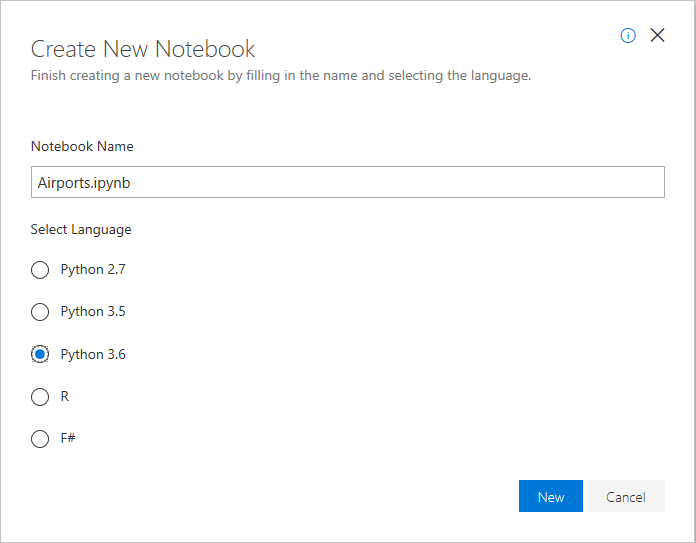
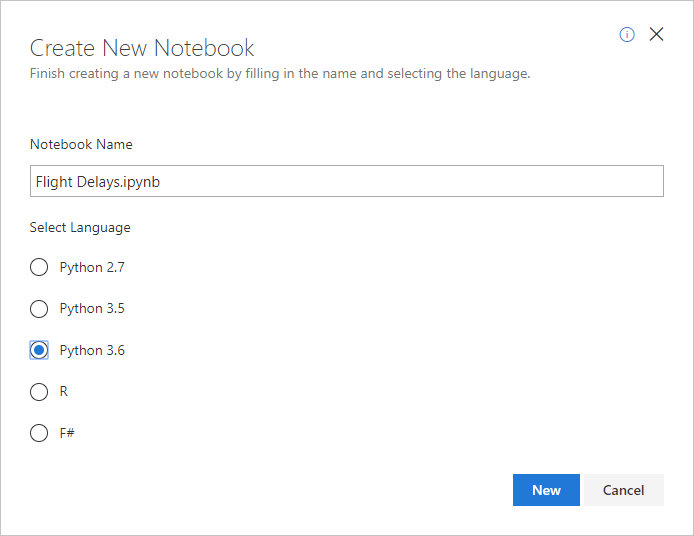
Updated data-handling module

diff --git a/Data Handling in Python (Ibach)/includes/4-analyze-flight-delays.md b/Data Handling in Python (Ibach)/includes/4-analyze-flight-delays.md
@@ -26,7 +26,7 @@ Azure notebooks are created through the portal at https://notebooks.azure.com an
 
 	_Adding a notebook to the project_
 
-1. Name the notebook "Airports.ipynb," and select **Python 3.6** as the language. This will create a notebook with a Python 3.6 kernel for executing Python code. One of the strengths of Azure notebooks is that you can use different languages by choosing different kernels.
+1. Name the notebook "Flight Delays.ipynb," and select **Python 3.6** as the language. This will create a notebook with a Python 3.6 kernel for executing Python code. One of the strengths of Azure notebooks is that you can use different languages by choosing different kernels.
 
 	![Creating a notebook](media/add-notebook-2.png)
 
@@ -37,36 +37,6 @@ Azure notebooks are created through the portal at https://notebooks.azure.com an
 1. Click the notebook to open it for editing.
 
 You can create additional projects and notebooks as you work with Azure Notebooks. You can create notebooks from scratch, or you can upload existing notebooks. And once a notebook is created or uploaded, you can take advantage of Azure compute resources to run the notebook and leverage popular Python libraries such as [Keras](https://keras.io/), [NumPy](http://www.numpy.org/), [Pandas](https://pandas.pydata.org/), [Matplotlib](https://matplotlib.org/), and [Scikit-learn](https://scikit-learn.org/stable/index.html).
-
-## Execute code in the notebook
-
-Jupyter notebooks are composed of cells. Each cell is assigned one of three types: 
-- **Markdown** for entering text in markdown format. 
-- **Code** for entering code that runs interactively  
-- **Raw NBConvert** for entering data inline
-
-Code entered into code cells is executed by a *kernel*. The popular IPython kernel supports code written in Python, but dozens of other kernels are available supporting other languages. Azure notebooks (Jupyter notebooks created in Azure) support Python, R, and F#. They also support numerous packages and libraries that are commonly used in Python.
-
-1. In the first cell, set the cell type to **Markdown** and type "# Airport codes" (without quotation marks) into the cell itself. The click the **Run** button in the notebook's toolbar:
-
-	![Creating a markdown cell](media/first-cell.png)
-
-	_Creating a markdown cell_
-
-1. Type the following code into the next cell and click **Run** again to execute the code:
-
-	```python
-    airport_codes = ['SEA', 'DTW', 'HOU', 'BOS']
-    print(airport_codes)
-	```
-
-	Confirm that a list of airport codes appears in the output:
-
-	![Running a code cell](media/second-cell.png)
-
-	_Running a code cell_
-
-You can add additional cells to the notebook as needed to execute code and document your work. Finish up by selecting **Save and Checkpoint** from the notebook's **File** menu to save the notebook. Get in the habit of saving early and often to minimize the chance of losing your work.  
 
 ## Analyze flight information
 
